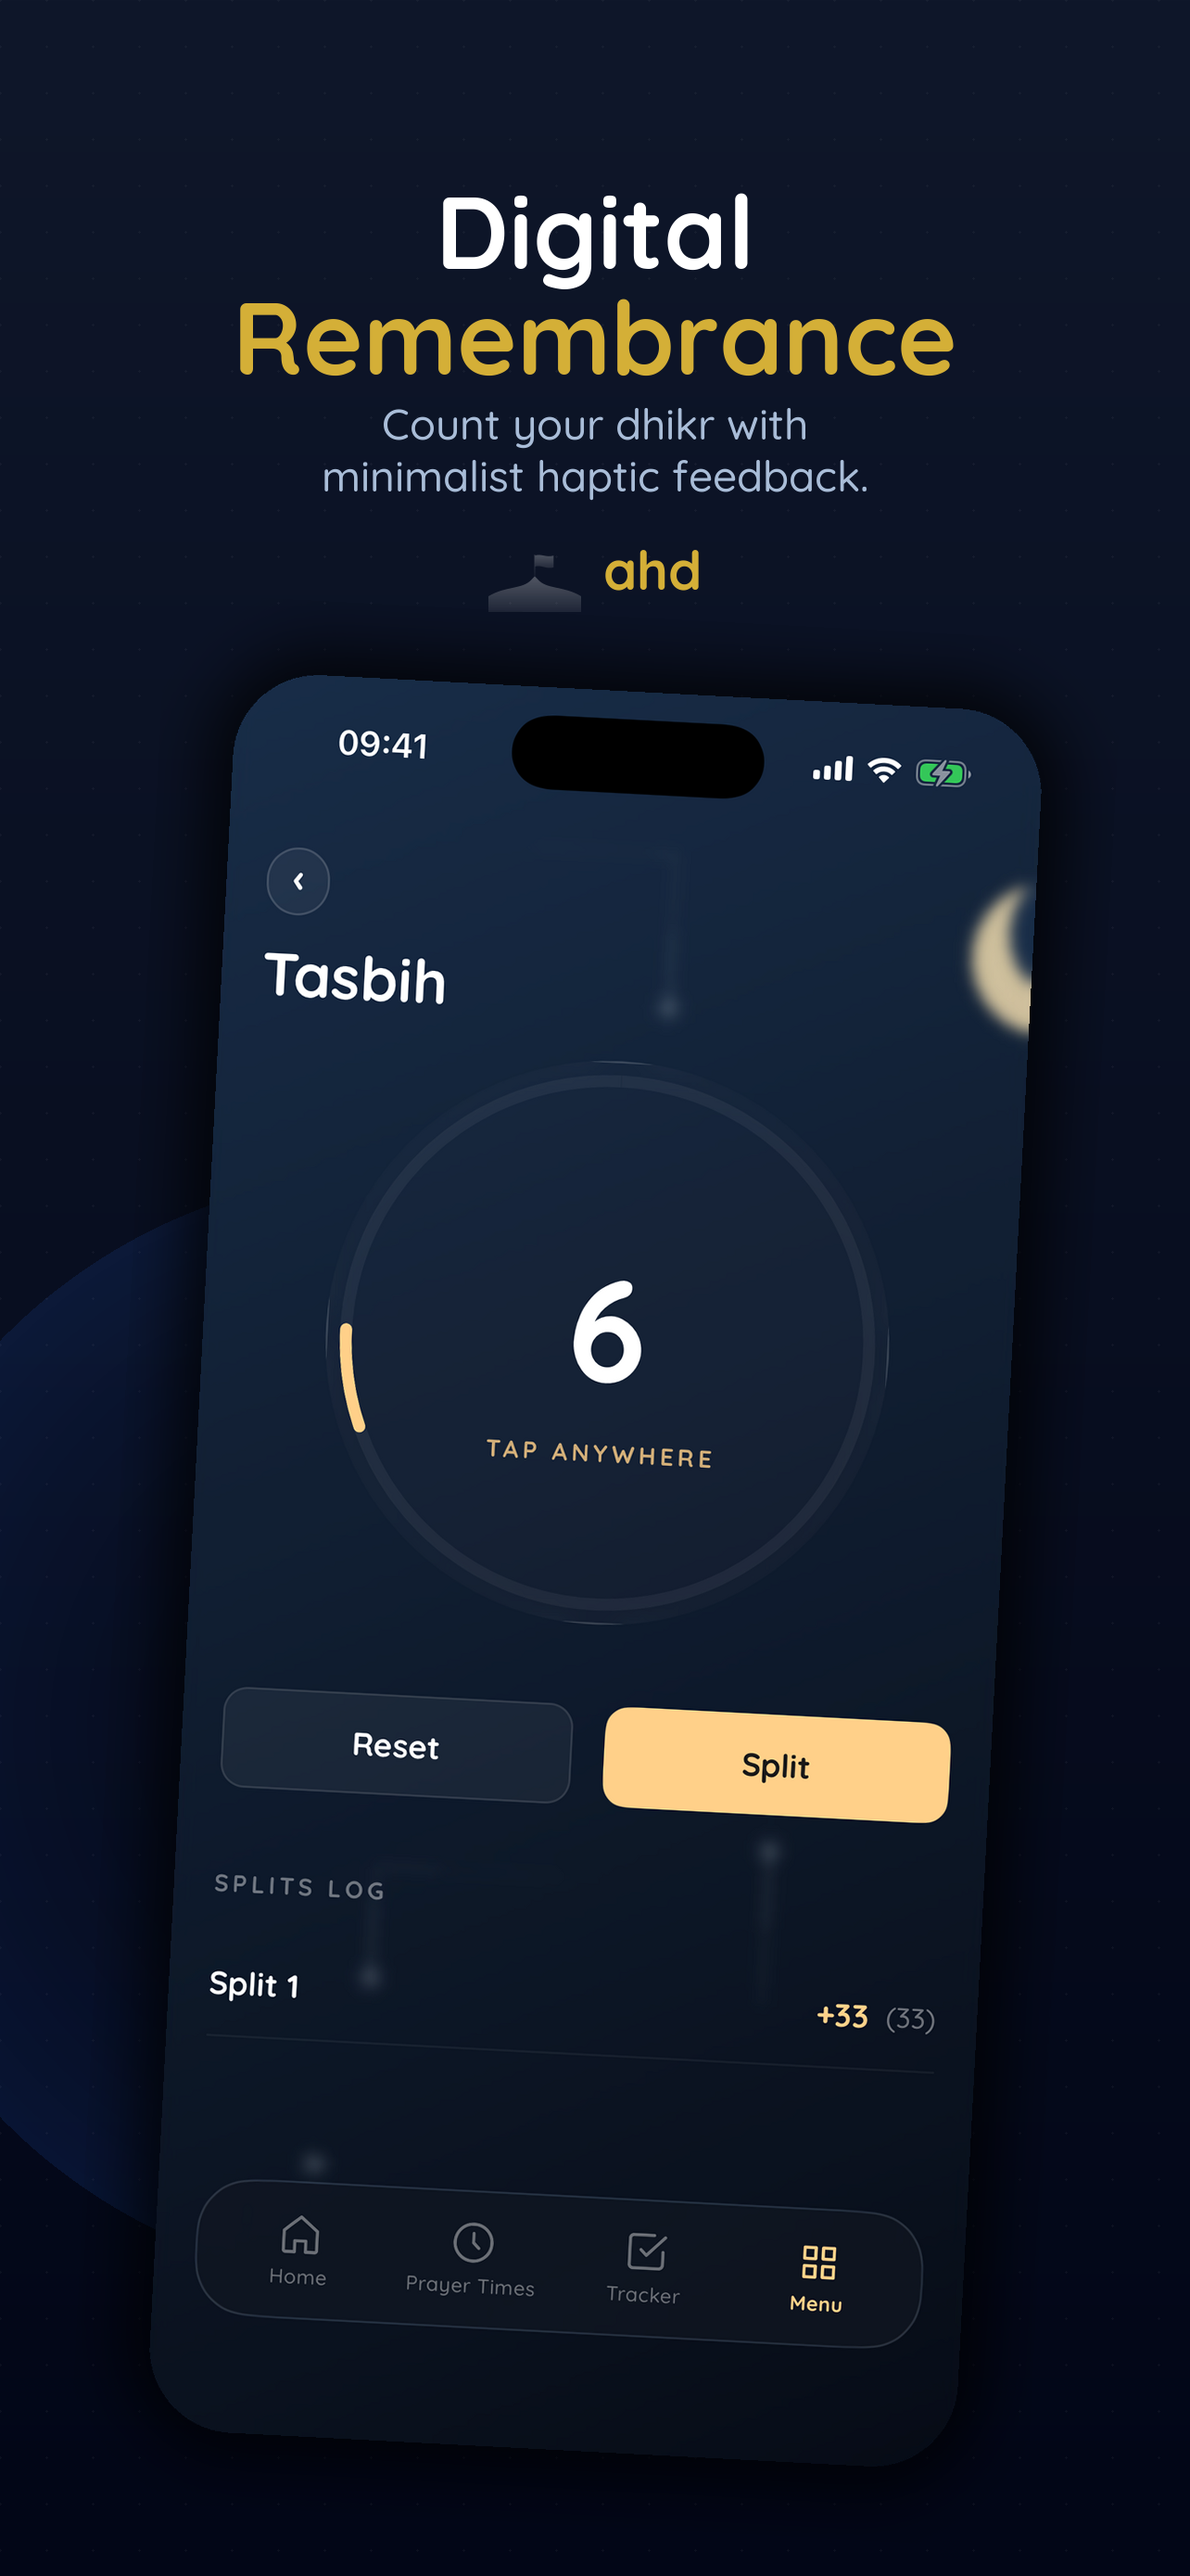
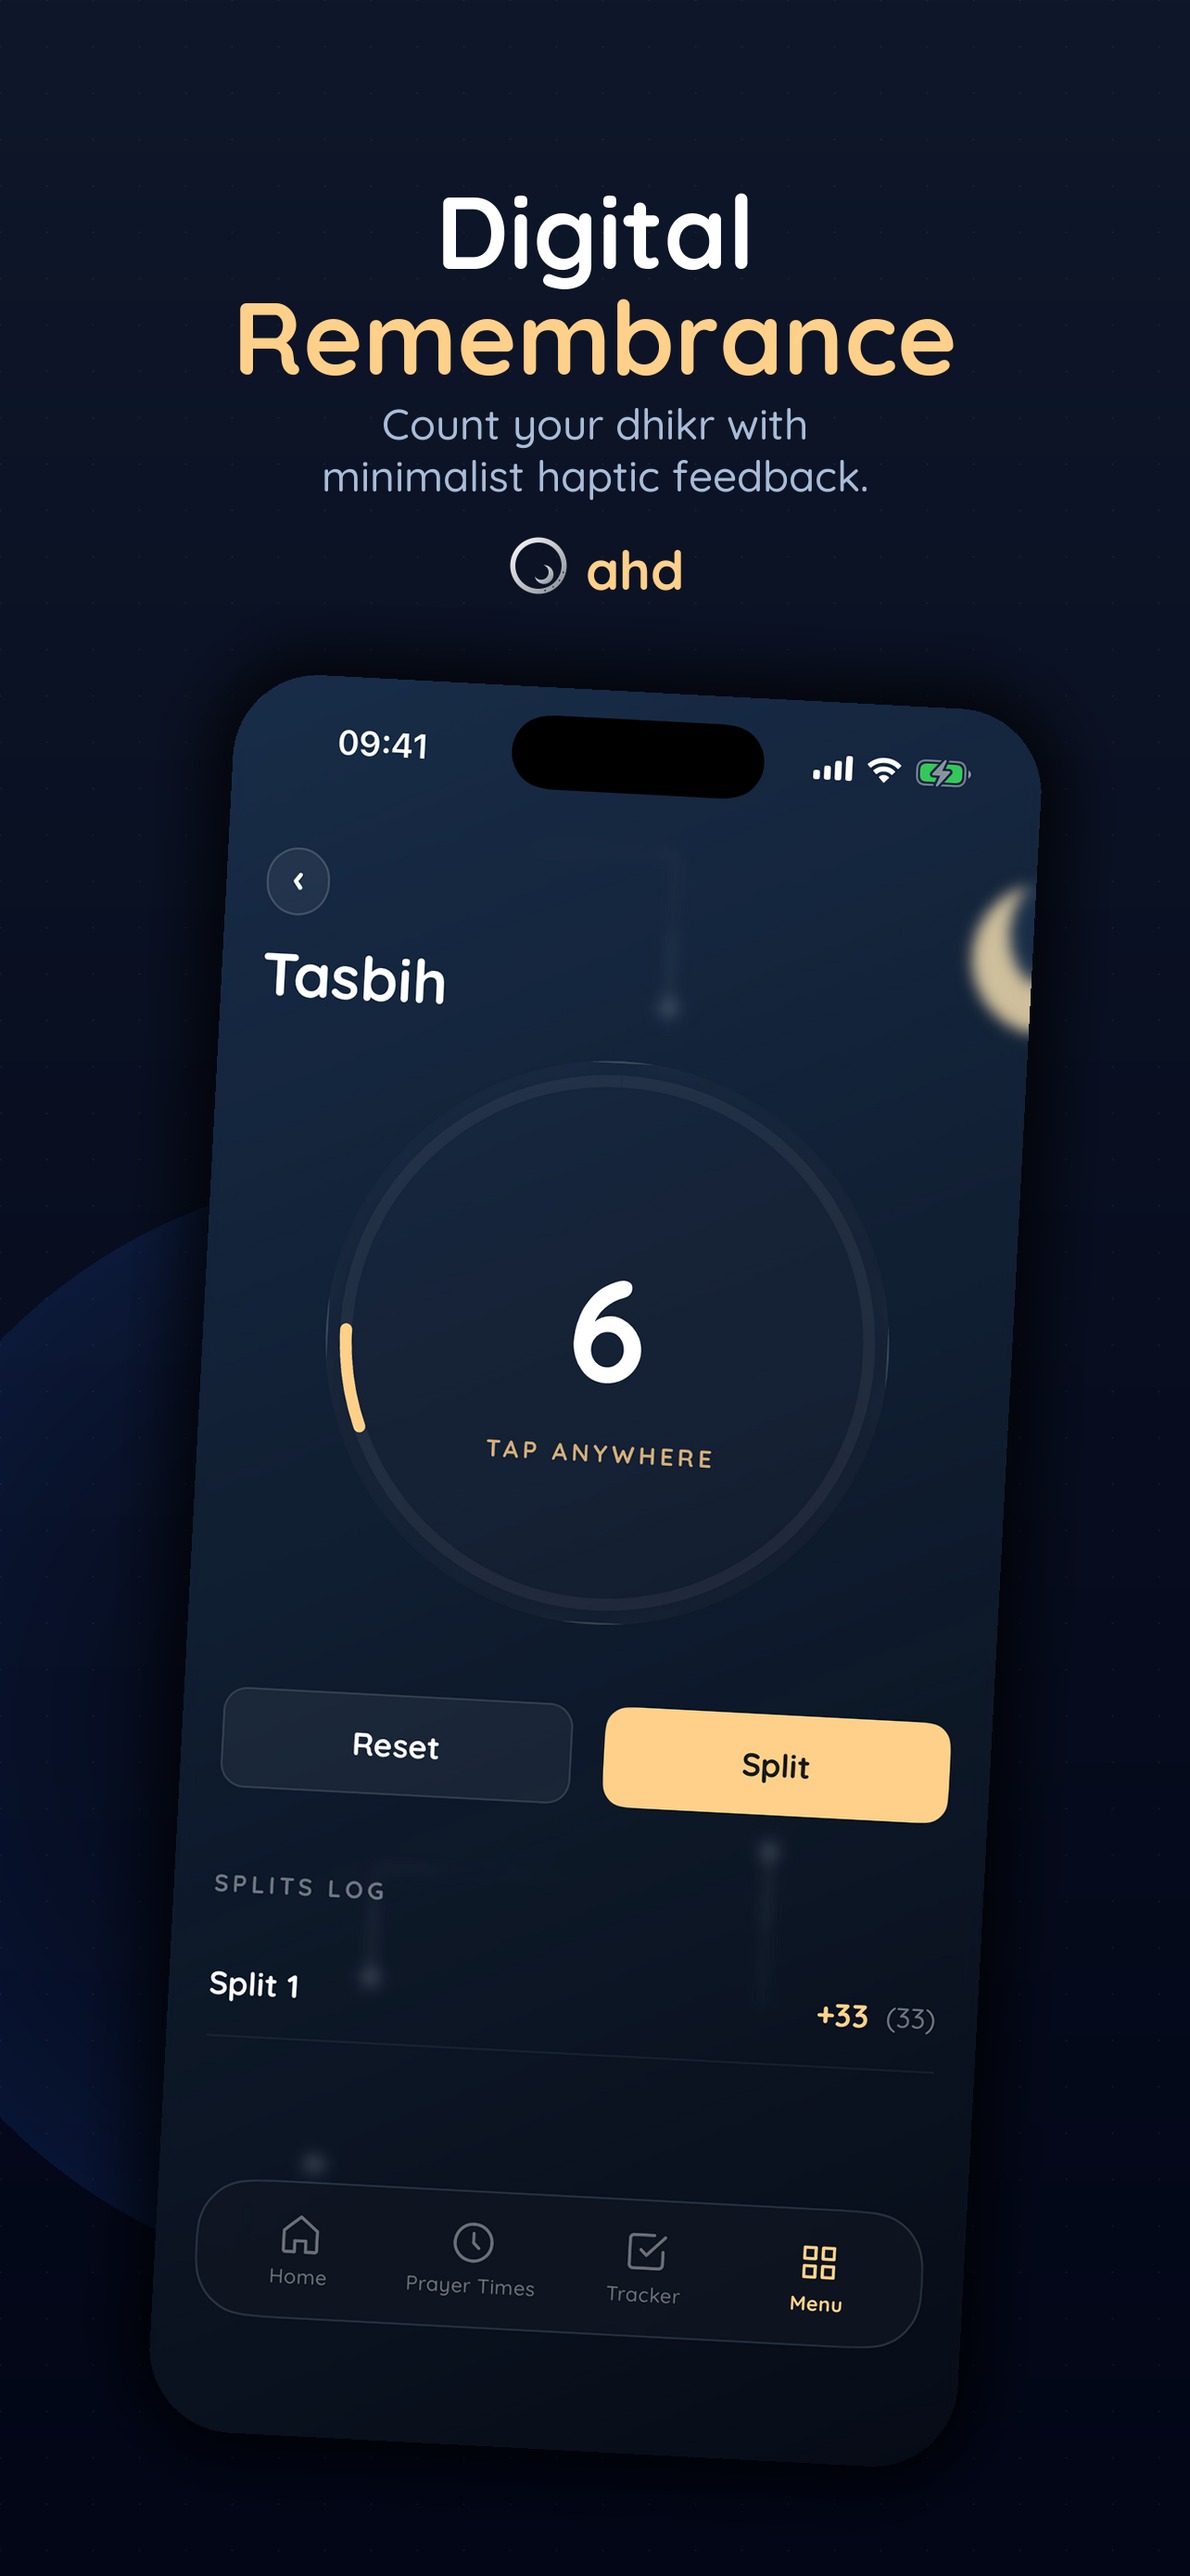
upd

Changed region(s): [[0.1869, 0.0929, 0.81, 0.1548], [0.405, 0.2167, 0.5919, 0.2477]]

diff --git a/index.html b/index.html
@@ -269,21 +269,7 @@
     <div class="container">
         <header>
             <div class="logo">
-                <svg width="48" height="48" viewBox="0 0 1000 1000" xmlns="http://www.w3.org/2000/svg">
-                    <defs>
-                        <linearGradient id="yellowGrad" x1="0" y1="0" x2="0" y2="1">
-                            <stop offset="0%" stop-color="#c8a84b"/>
-                            <stop offset="100%" stop-color="#c8a84b"/>
-                        </linearGradient>
-                    </defs>
-                    <g transform="translate(500,500) scale(3.5) translate(-125,-125)">
-                        <g transform="translate(2.3,-3.7)">
-                            <path d="m81.28 182.4h42.66l-60.11-107.2h-43.02l60.47 107.2z" fill="url(#yellowGrad)"/>
-                            <path d="m142.2 182.4h42.03l-60.7-107.2h-41.4l60.07 107.2z" fill="url(#yellowGrad)"/>
-                            <path d="m198.9 75-13.25 23.69h-36.06l12.6 22.45h37.14l25.24-46.14h-25.67z" fill="url(#yellowGrad)"/>
-                        </g>
-                    </g>
-                </svg>
+                <img src="icon-dark-no-bg.png" alt="Ahd Logo">
                 <span>ahd</span>
             </div>
             <nav>
@@ -298,7 +284,7 @@
             <h2>Companion</h2>
             <p>Beautiful reminders for every moment of worship. Accurate prayer times, smart notifications, and a focused home built just for salah.</p>
             <div class="cta-buttons">
-                <a href="https://apps.apple.com/app/twelve-prayer/id6737468357" class="btn btn-primary">
+                <a href="https://apps.apple.com/app/ahd-prayer/id6737468357" class="btn btn-primary">
                     <svg width="20" height="20" viewBox="0 0 24 24" fill="currentColor">
                         <path d="M18.71 19.5c-.83 1.24-1.71 2.45-3.05 2.47-1.34.03-1.77-.79-3.29-.79-1.53 0-2 .77-3.27.82-1.31.05-2.3-1.32-3.14-2.53C4.25 17 2.94 12.45 4.7 9.39c.87-1.52 2.43-2.48 4.12-2.51 1.28-.02 2.5.87 3.29.87.78 0 2.26-1.07 3.81-.91.65.03 2.47.26 3.64 1.98-.09.06-2.17 1.28-2.15 3.81.03 3.02 2.65 4.03 2.68 4.04-.03.07-.42 1.44-1.38 2.83M13 3.5c.73-.83 1.94-1.46 2.94-1.5.13 1.17-.34 2.35-1.04 3.19-.69.85-1.83 1.51-2.95 1.42-.15-1.15.41-2.35 1.05-3.11z"/>
                     </svg>
@@ -325,6 +311,18 @@
             <div class="feature">
                 <h3>Track and Catch Up</h3>
                 <p>Log prayers, count qada, and clear your outstanding balance with ease.</p>
+            </div>
+            <div class="feature">
+                <h3>Monthly Planning</h3>
+                <p>Full Hijri calendar with key Islamic dates. Plan your worship ahead of time.</p>
+            </div>
+            <div class="feature">
+                <h3>Accurate Qibla</h3>
+                <p>Built-in compass with high accuracy to ensure you're always facing the right way.</p>
+            </div>
+            <div class="feature">
+                <h3>Digital Tasbih</h3>
+                <p>Simple and intuitive dhikr counter with haptic feedback to keep you focused.</p>
             </div>
             <div class="feature">
                 <h3>Stay in Control</h3>

diff --git a/privacy.html b/privacy.html
@@ -196,21 +196,7 @@
     <div class="container">
         <header>
             <div class="logo">
-                <svg width="48" height="48" viewBox="0 0 1000 1000" xmlns="http://www.w3.org/2000/svg">
-                    <defs>
-                        <linearGradient id="yellowGrad" x1="0" y1="0" x2="0" y2="1">
-                            <stop offset="0%" stop-color="#c8a84b"/>
-                            <stop offset="100%" stop-color="#c8a84b"/>
-                        </linearGradient>
-                    </defs>
-                    <g transform="translate(500,500) scale(3.5) translate(-125,-125)">
-                        <g transform="translate(2.3,-3.7)">
-                            <path d="m81.28 182.4h42.66l-60.11-107.2h-43.02l60.47 107.2z" fill="url(#yellowGrad)"/>
-                            <path d="m142.2 182.4h42.03l-60.7-107.2h-41.4l60.07 107.2z" fill="url(#yellowGrad)"/>
-                            <path d="m198.9 75-13.25 23.69h-36.06l12.6 22.45h37.14l25.24-46.14h-25.67z" fill="url(#yellowGrad)"/>
-                        </g>
-                    </g>
-                </svg>
+                <img src="icon-dark-no-bg.png" alt="Ahd Logo">
                 <span>ahd</span>
             </div>
             <nav>
@@ -273,7 +259,7 @@
             </p>
             <p>
                 You can revoke location permission at any time in your device settings
-                under Location Services → Twelve (iOS) or App Permissions → Location → Twelve (Android).
+                under Location Services → Ahd (iOS) or App Permissions → Location → Ahd (Android).
                 You can also set your location manually by searching for a city.
             </p>
 
@@ -285,7 +271,7 @@
             </p>
             <p>
                 You can disable notifications at any time in your device settings
-                under Notifications → Twelve (iOS) or App Notifications → Twelve (Android).
+                under Notifications → Ahd (iOS) or App Notifications → Ahd (Android).
             </p>
 
             <h2>6. Third-party services</h2>

diff --git a/support.html b/support.html
@@ -202,21 +202,7 @@
     <div class="container">
         <header>
             <div class="logo">
-                <svg width="48" height="48" viewBox="0 0 1000 1000" xmlns="http://www.w3.org/2000/svg">
-                    <defs>
-                        <linearGradient id="yellowGrad" x1="0" y1="0" x2="0" y2="1">
-                            <stop offset="0%" stop-color="#c8a84b"/>
-                            <stop offset="100%" stop-color="#c8a84b"/>
-                        </linearGradient>
-                    </defs>
-                    <g transform="translate(500,500) scale(3.5) translate(-125,-125)">
-                        <g transform="translate(2.3,-3.7)">
-                            <path d="m81.28 182.4h42.66l-60.11-107.2h-43.02l60.47 107.2z" fill="url(#yellowGrad)"/>
-                            <path d="m142.2 182.4h42.03l-60.7-107.2h-41.4l60.07 107.2z" fill="url(#yellowGrad)"/>
-                            <path d="m198.9 75-13.25 23.69h-36.06l12.6 22.45h37.14l25.24-46.14h-25.67z" fill="url(#yellowGrad)"/>
-                        </g>
-                    </g>
-                </svg>
+                <img src="icon-dark-no-bg.png" alt="Ahd Logo">
                 <span>ahd</span>
             </div>
             <nav>
@@ -249,7 +235,7 @@
 
             <div class="card">
                 <h3>I'm not receiving notifications</h3>
-                <p>Make sure notifications are enabled in Settings → Notifications, and that Twelve has permission in your iPhone's Settings → Notifications → Twelve.</p>
+                <p>Make sure notifications are enabled in Settings → Notifications, and that Ahd has permission in your iPhone's Settings → Notifications → Ahd.</p>
             </div>
 
             <div class="card">
